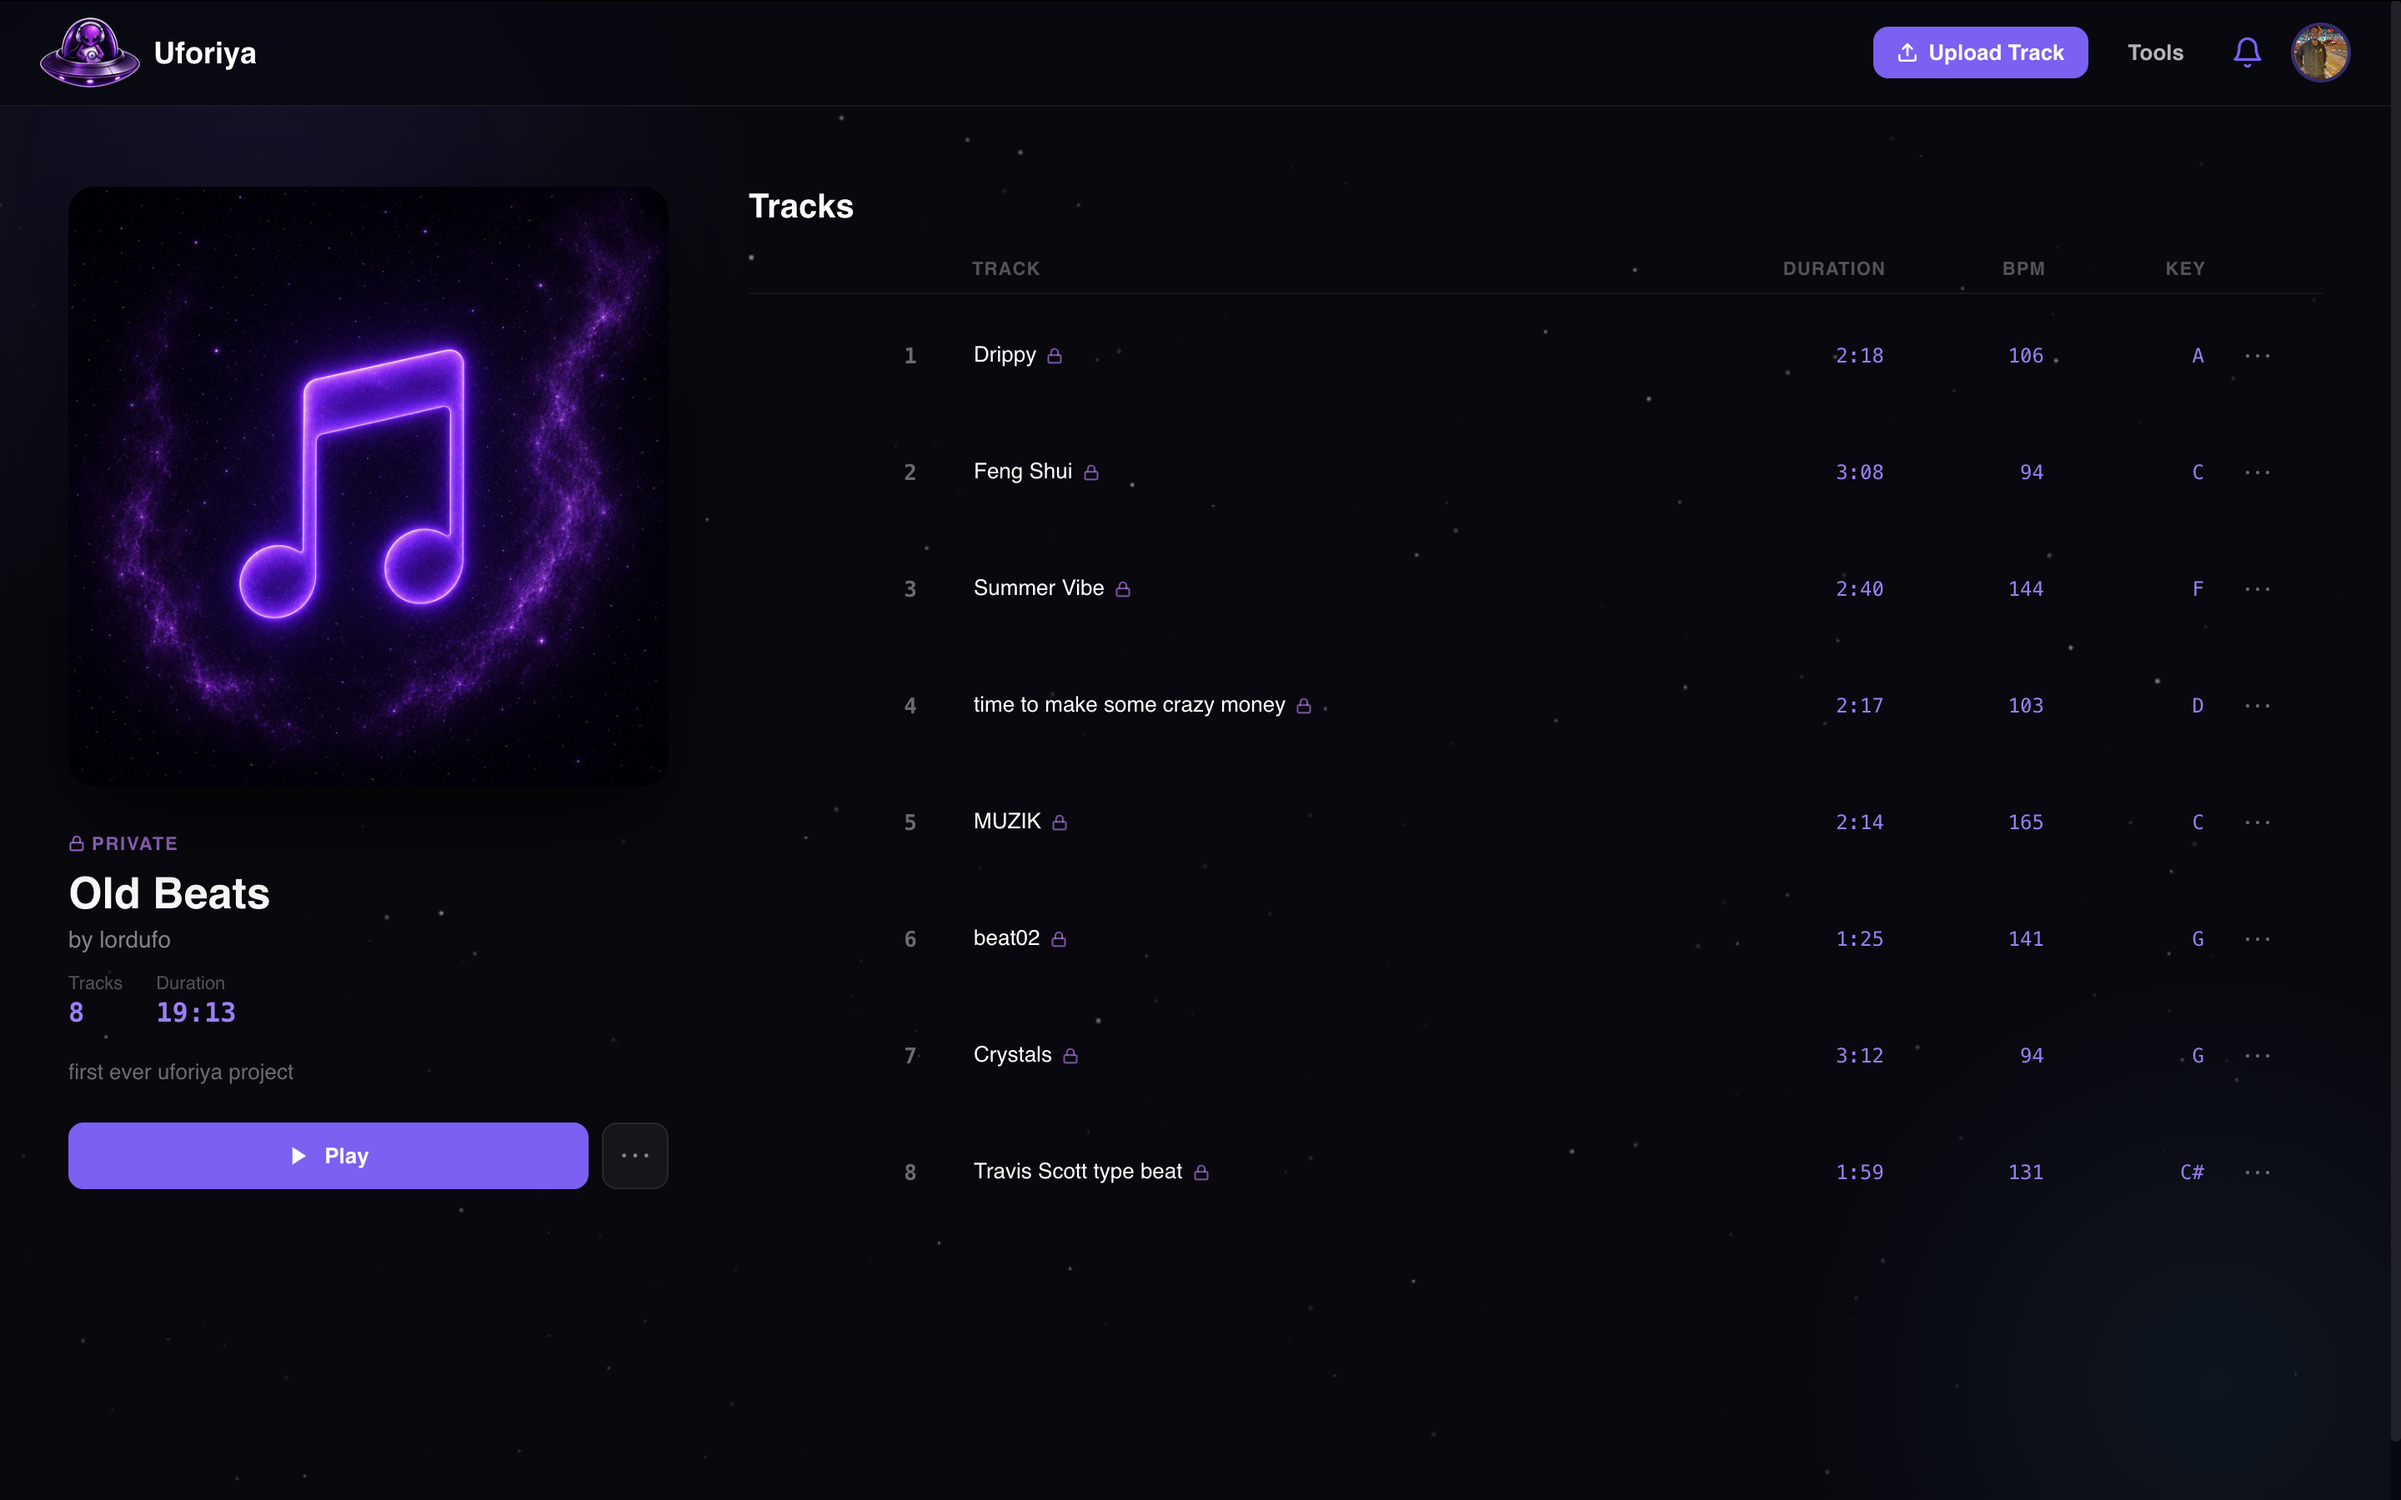
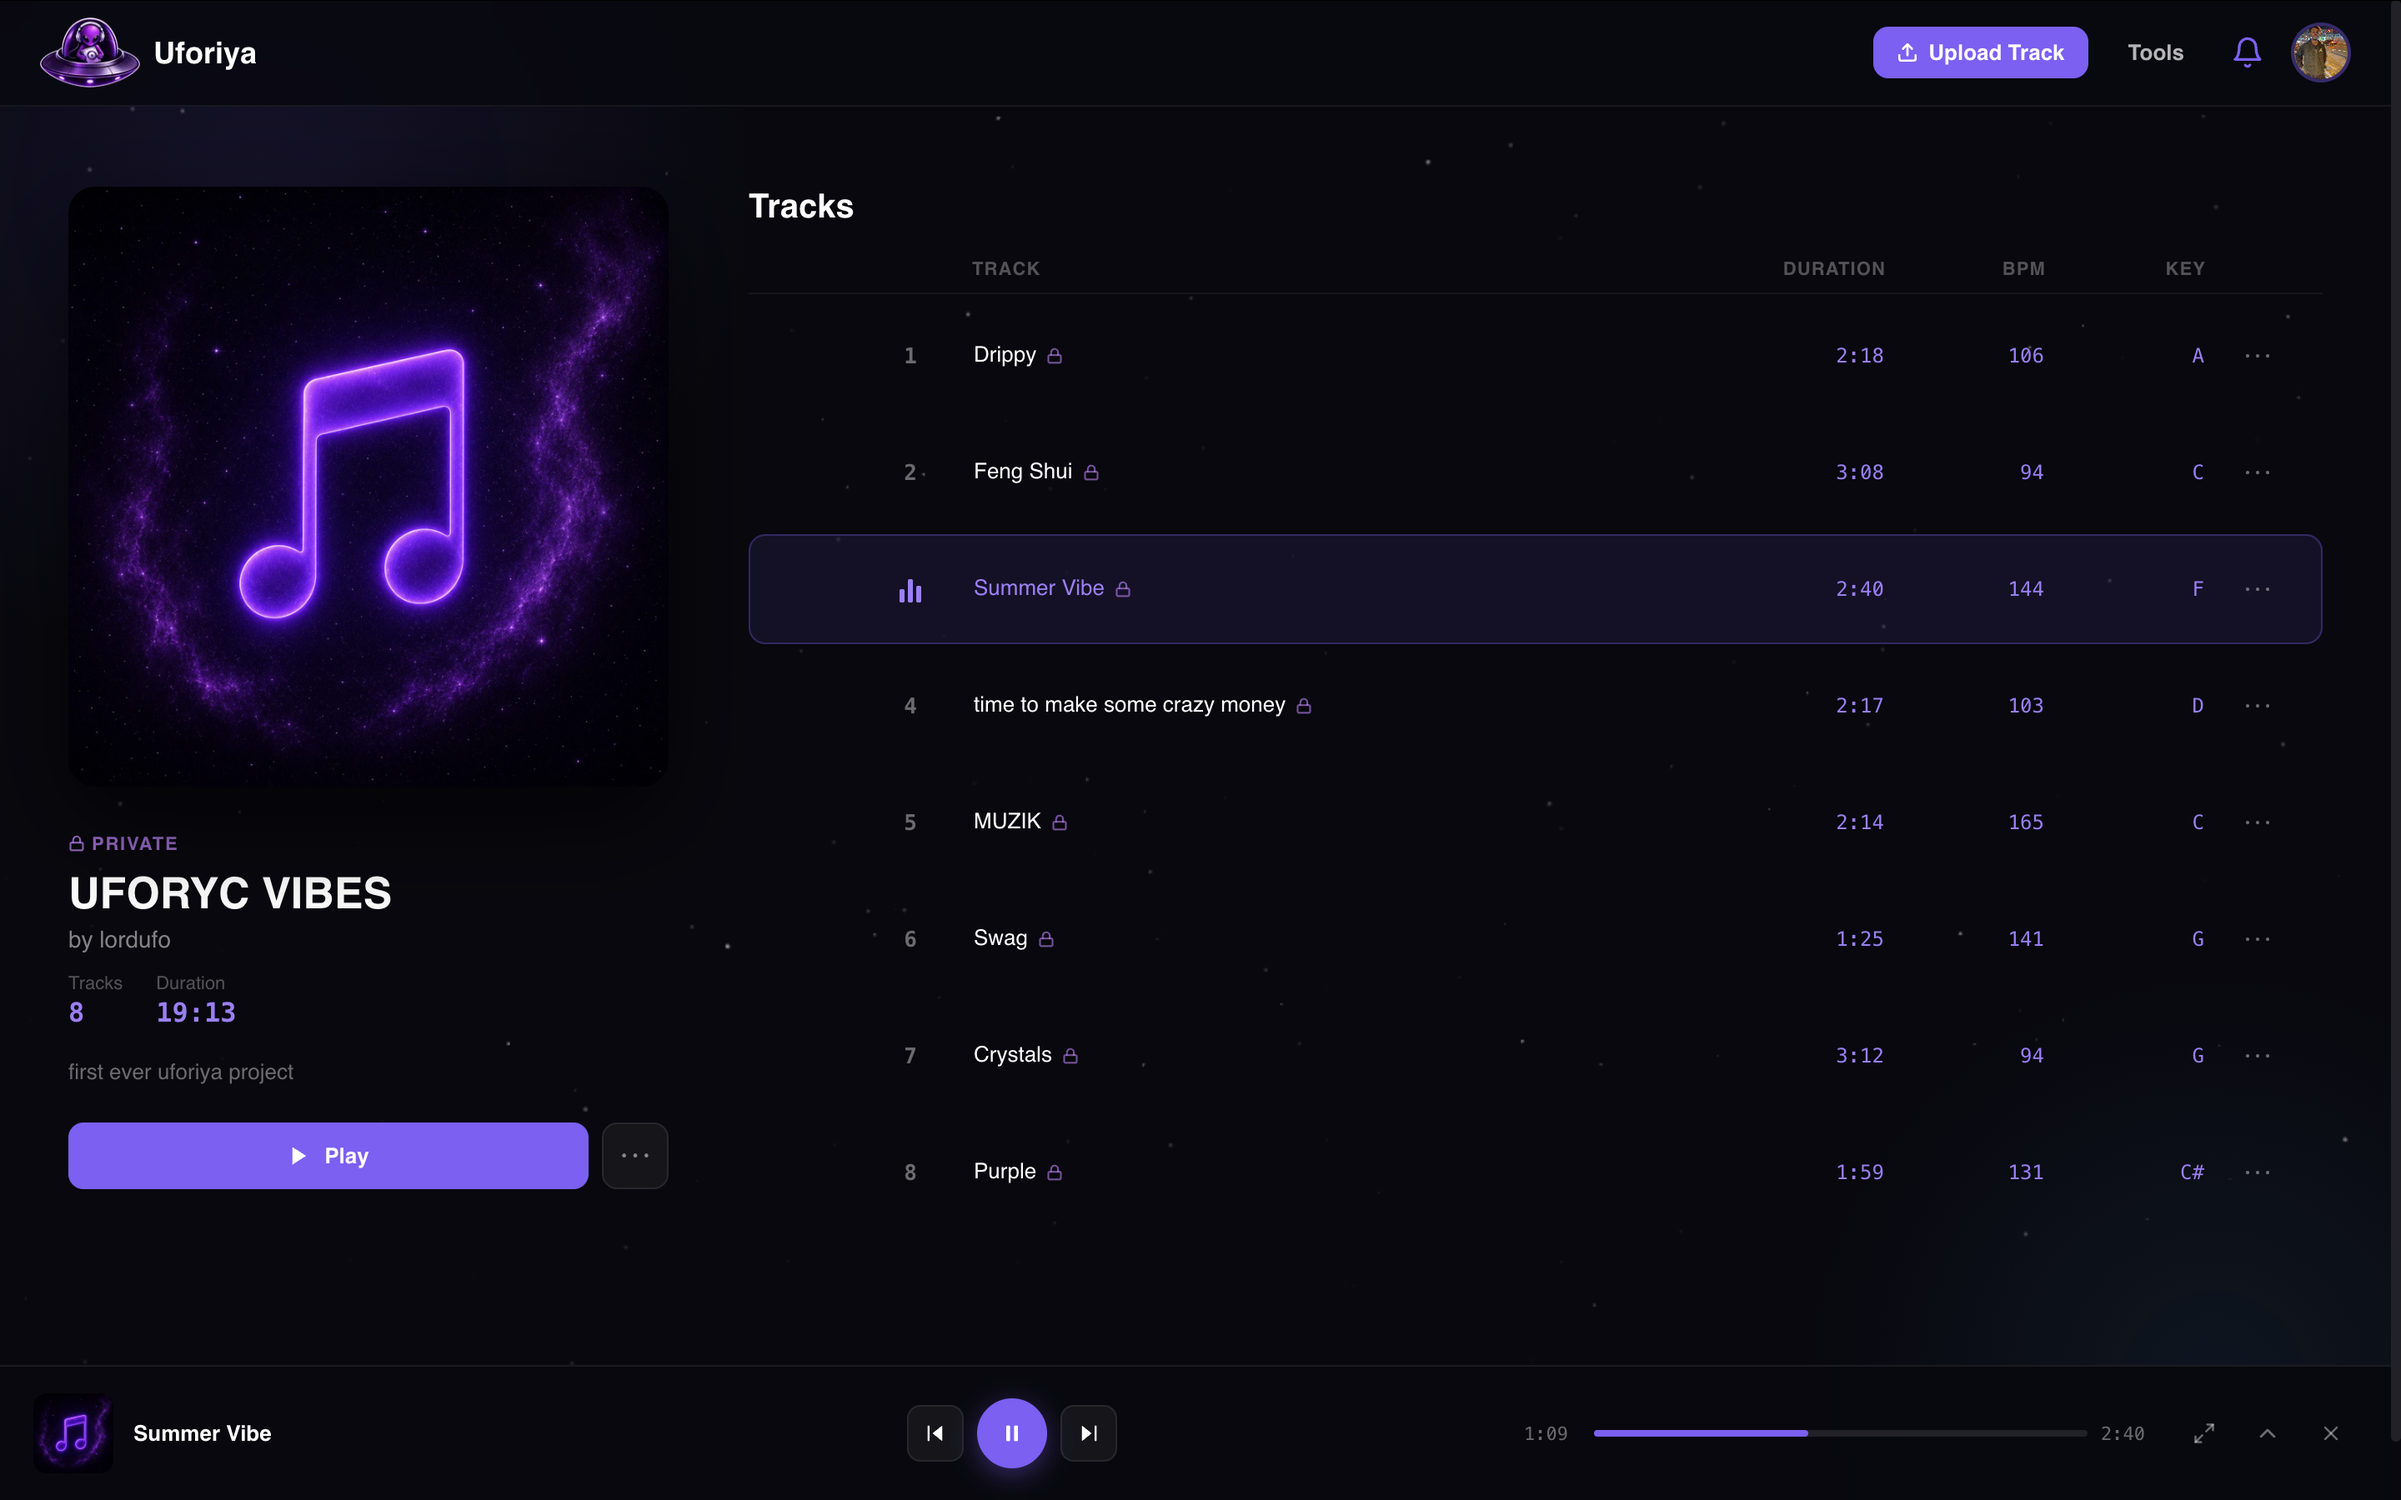
Merge Pro and Premium into a single Pro plan at .99 with unlimited tracks and versions, raise free plan to 30 tracks and 10 versions

diff --git a/index.html b/index.html
@@ -97,22 +97,14 @@
             "name": "Free",
             "price": "0",
             "priceCurrency": "CAD",
-            "description": "25 tracks, 5 versions per track, unlimited collaborators."
-          },
+            "description": "30 tracks, 10 versions per track, unlimited collaborators."          },
           {
             "@type": "Offer",
             "name": "Pro",
-            "price": "9.99",
+            "price": "12.99",
             "priceCurrency": "CAD",
-            "description": "250 tracks, 10 versions per track, weekly and monthly analytics."
-          },
-          {
-            "@type": "Offer",
-            "name": "Premium",
-            "price": "19.99",
-            "priceCurrency": "CAD",
-            "description": "1,000 tracks, 15 versions per track, daily analytics and granular download control."
-          }
+            "description": "Unlimited tracks, unlimited versions, daily analytics and granular download control."  
+           }
         ]
       },
       {
@@ -172,7 +164,7 @@
             "name": "Is Uforiya free?",
             "acceptedAnswer": {
               "@type": "Answer",
-              "text": "The free plan covers 25 tracks, 5 versions per track and unlimited collaborators, with no card needed. Pro and Premium raise those limits and add analytics. Collaboration itself is on every plan, including the free one."
+              "text": "The free plan covers 30 tracks, 10 versions per track and unlimited collaborators, with no card needed. Pro removes the track and version limits entirely and adds analytics. Collaboration itself is on every plan, including the free one."
             }
           },
           {
@@ -719,7 +711,7 @@
           <span class="toggle-thumb"></span>
         </button>
         <span class="toggle-label" id="label-yearly">Yearly</span>
-        <em class="save-badge">Save about 17%</em>
+        <em class="save-badge">Save about 36%</em>
       </div>
 
       <div class="pricing-grid">
@@ -733,8 +725,8 @@
           <p class="plan-period">Free forever</p>
           <p class="plan-desc">Enough to run a real project and see if this fits how you work.</p>
           <ul class="plan-features">
-            <li>25 tracks</li>
-            <li>5 versions per track</li>
+            <li>30 tracks</li>
+            <li>10 versions per track</li>
             <li>Unlimited collaborators</li>
             <li>All seven audio tools</li>
             <li>Last 5 plays of analytics</li>
@@ -745,41 +737,22 @@
 
         <!-- Pro -->
         <article class="plan plan-featured">
-          <span class="plan-badge">Most users land here</span>
+          <span class="plan-badge">Everything, one plan</span>
           <h3 class="plan-name">Pro</h3>
           <div class="plan-price">
-            <span class="price-amount" data-monthly="$9.99" data-yearly="$8.25">$9.99</span>
+            <span class="price-amount" data-monthly="$12.99" data-yearly="$8.33">$12.99</span>
           </div>
           <p class="plan-period" data-monthly="per month CAD" data-yearly="per month CAD, billed yearly">per month CAD</p>
-          <p class="plan-desc">For artists building a catalogue and working with a regular team.</p>
+          <p class="plan-desc">For artists and studios running several records at once.</p>
           <ul class="plan-features">
-            <li>250 tracks</li>
-            <li>10 versions per track</li>
+            <li>Unlimited tracks</li>
+            <li>Unlimited versions per track</li>
             <li>Unlimited collaborators</li>
             <li>Higher daily tool limit</li>
-            <li>Weekly and monthly analytics</li>
-            <li>Stem uploads per version</li>
-          </ul>
-          <a href="https://uforiya.space" class="btn-plan" target="_blank" rel="noopener">Get Pro</a>
-        </article>
-
-        <!-- Premium -->
-        <article class="plan">
-          <h3 class="plan-name">Premium</h3>
-          <div class="plan-price">
-            <span class="price-amount" data-monthly="$19.99" data-yearly="$16.58">$19.99</span>
-          </div>
-          <p class="plan-period" data-monthly="per month CAD" data-yearly="per month CAD, billed yearly">per month CAD</p>
-          <p class="plan-desc">For studios and busy rooms running several records at once.</p>
-          <ul class="plan-features">
-            <li>1,000 tracks</li>
-            <li>15 versions per track</li>
-            <li>Unlimited collaborators</li>
-            <li>Highest daily tool limit</li>
             <li>Daily, weekly and monthly analytics</li>
             <li>Granular download control</li>
           </ul>
-          <a href="https://uforiya.space" class="btn-plan" target="_blank" rel="noopener">Get Premium</a>
+          <a href="https://uforiya.space" class="btn-plan" target="_blank" rel="noopener">Get Pro</a>
         </article>
 
       </div>
@@ -847,7 +820,7 @@
         <details class="faq-item">
           <summary><span>Is Uforiya free?</span></summary>
           <div class="faq-answer">
-            <p>The free plan covers 25 tracks, 5 versions per track and unlimited collaborators, with no card needed. Pro and Premium raise those limits and add analytics. Collaboration itself is on every plan, including the free one.</p>
+            <p>The free plan covers 30 tracks, 10 versions per track and unlimited collaborators, with no card needed. Pro removes the track and version limits entirely and adds analytics. Collaboration itself is on every plan, including the free one.</p>          
           </div>
         </details>
 
